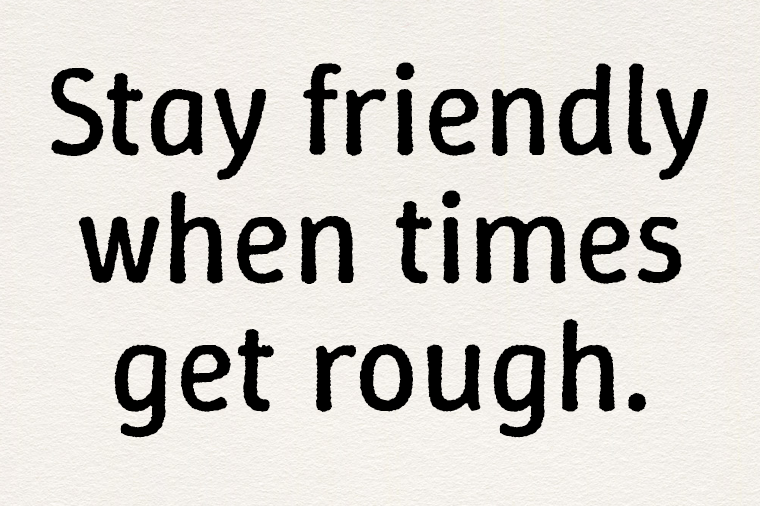
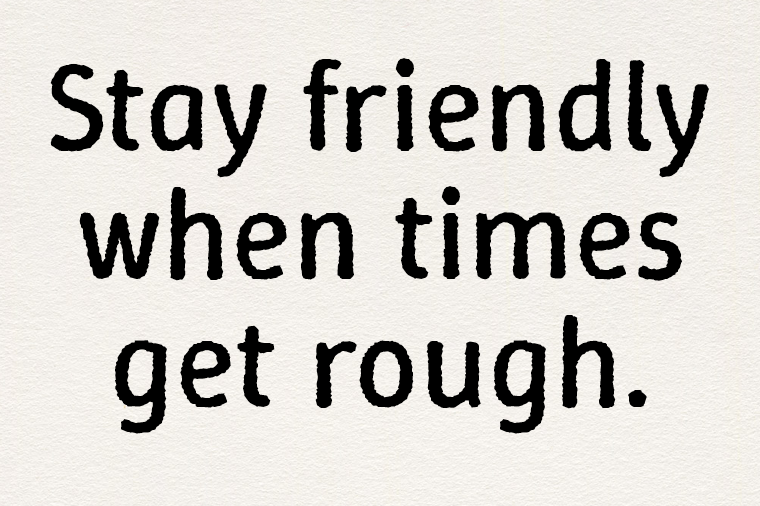
first commit, customized

diff --git a/documentation/DESCRIPTION.en_us.html b/documentation/DESCRIPTION.en_us.html
@@ -1,12 +1,12 @@
 <p>
-    Please add a text describing the font here, 100 chracters or more, but no more than 500 words.
-    See https://googlefonts.github.io/gf-guide/description.html for further reference.
-    Please make sure that HTML characters are properly encoded. ('&' becomes &amp; etc.)
-    If unsure, use https://www.freeformatter.com/html-escape.html for formatting. (Use "Escape HTML").
+    Winky Rough is the roughed variant of Winky Sans (https://github.com/typofactur/winkysans) imitating dried ink on rough paper.
 </p>
 <p>
-    Could be several paragraphs, also.
+    Unlike its counterpart Winky Sans, Winky Rough is not a variable font (yet). Winky Sans is available in seven weights from Light (300) to Black (900).
 </p>
 <p>
-    To contribute, see <a href="https://github.com/youruseraccount/yourrepository">github.com/youruseraccount/yourrepository</a>.
+    But be careful! Like flowing ink on paper the forms grows in all directions. While the slim weights might have been written with a fineliner, the black style look like ink blots from a broken pen.
+</p>
+<p>
+    To contribute, see <a href="https://github.com/typofactur/winkyrough">github.com/typofactur/winkyrough</a>.
 </p>

diff --git a/README.md b/README.md
@@ -35,16 +35,16 @@
 
 # My Font
 
-[![][Fontbakery]](https://typofactur.github.io/winkyrough.git/fontbakery/fontbakery-report.html)
-[![][Universal]](https://typofactur.github.io/winkyrough.git/fontbakery/fontbakery-report.html)
-[![][GF Profile]](https://typofactur.github.io/winkyrough.git/fontbakery/fontbakery-report.html)
-[![][Shaping]](https://typofactur.github.io/winkyrough.git/fontbakery/fontbakery-report.html)
+[![][Fontbakery]](https://typofactur.github.io/winkyrough/fontbakery/fontbakery-report.html)
+[![][Universal]](https://typofactur.github.io/winkyrough/fontbakery/fontbakery-report.html)
+[![][GF Profile]](https://typofactur.github.io/winkyrough/fontbakery/fontbakery-report.html)
+[![][Shaping]](https://typofactur.github.io/winkyrough/fontbakery/fontbakery-report.html)
 
-[Fontbakery]: https://img.shields.io/endpoint?url=https%3A%2F%2Fraw.githubusercontent.com%2Ftypofactur%2Fwinkyrough.git%2Fgh-pages%2Fbadges%2Foverall.json
-[GF Profile]: https://img.shields.io/endpoint?url=https%3A%2F%2Fraw.githubusercontent.com%2Ftypofactur%2Fwinkyrough.git%2Fgh-pages%2Fbadges%2FGoogleFonts.json
-[Outline Correctness]: https://img.shields.io/endpoint?url=https%3A%2F%2Fraw.githubusercontent.com%2Ftypofactur%2Fwinkyrough.git%2Fgh-pages%2Fbadges%2FOutlineCorrectnessChecks.json
-[Shaping]: https://img.shields.io/endpoint?url=https%3A%2F%2Fraw.githubusercontent.com%2Ftypofactur%2Fwinkyrough.git%2Fgh-pages%2Fbadges%2FShapingChecks.json
-[Universal]: https://img.shields.io/endpoint?url=https%3A%2F%2Fraw.githubusercontent.com%2Ftypofactur%2Fwinkyrough.git%2Fgh-pages%2Fbadges%2FUniversal.json
+[Fontbakery]: https://img.shields.io/endpoint?url=https%3A%2F%2Fraw.githubusercontent.com%2Ftypofactur%2Fwinkyrough%2Fgh-pages%2Fbadges%2Foverall.json
+[GF Profile]: https://img.shields.io/endpoint?url=https%3A%2F%2Fraw.githubusercontent.com%2Ftypofactur%2Fwinkyrough%2Fgh-pages%2Fbadges%2FGoogleFonts.json
+[Outline Correctness]: https://img.shields.io/endpoint?url=https%3A%2F%2Fraw.githubusercontent.com%2Ftypofactur%2Fwinkyrough%2Fgh-pages%2Fbadges%2FOutlineCorrectnessChecks.json
+[Shaping]: https://img.shields.io/endpoint?url=https%3A%2F%2Fraw.githubusercontent.com%2Ftypofactur%2Fwinkyrough%2Fgh-pages%2Fbadges%2FShapingChecks.json
+[Universal]: https://img.shields.io/endpoint?url=https%3A%2F%2Fraw.githubusercontent.com%2Ftypofactur%2Fwinkyrough%2Fgh-pages%2Fbadges%2FUniversal.json
 
 Winky Rough is the roughed variant of Winky Sans (https://github.com/typofactur/winkysans) imitating dried ink on rough paper.
 
@@ -81,6 +81,8 @@ The proof files and QA tests are also available automatically via GitHub Actions
 
 **27 December 2024. Version 1.002**
 - initial release
+- roughness 15/15/10
+- seven static weights (no variable font)
 
 ## License
 
